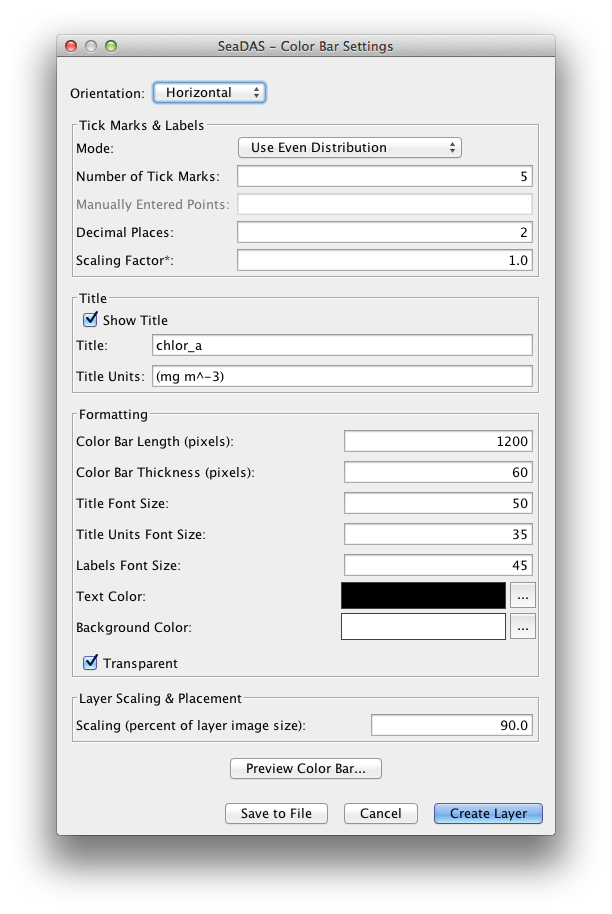
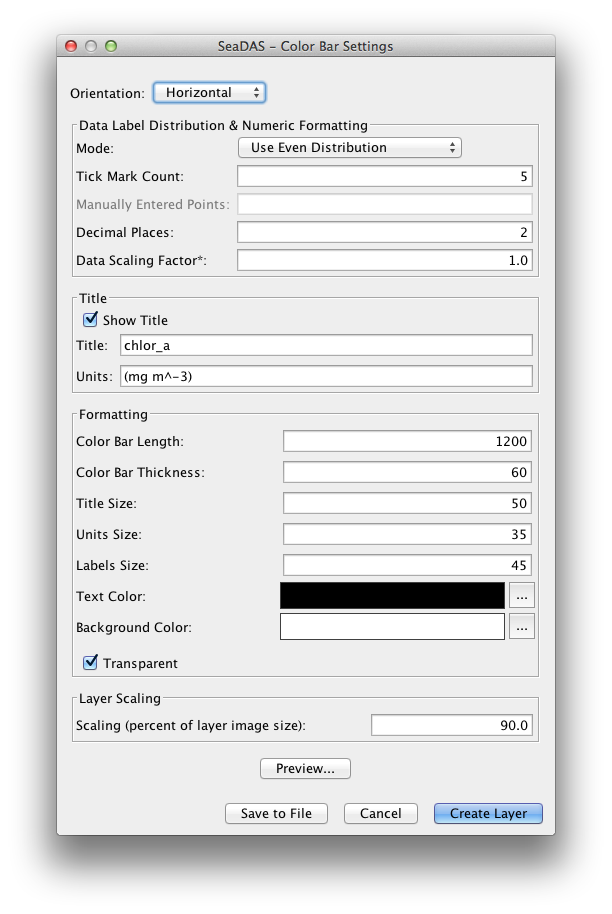
Color Bar Help: finished a rough draft with images.  Also discovered that Bathymetry Help hasn't been done as it was just a stub placeholder.

diff --git a/seadas-help/src/main/resources/doc/help/ColorBar/ColorBar.html b/seadas-help/src/main/resources/doc/help/ColorBar/ColorBar.html
@@ -9,7 +9,7 @@
 <table class="header">
     <tr class="header">
         <td class="header">&nbsp;
-            Color Bar Tool
+            Color Bar
         </td>
 
         <td class="header" align="right"><a href="index.html"><img src="../images/SeaDASHeader.png" border="0"></a></td>
@@ -18,15 +18,16 @@
 
 <br>
 
-<p> The Color Bar Tool is what enables display and formatting of the color bar, the color bar being a visual
+<p> The Color Bar tool is what enables display and formatting of the color bar, the color bar being a visual
     representation
     of the color palette, with its corresponding data values, which has been used in an image.
     <br><br>
 
-    The Color Bar Tool has been significantly revised for SeaDAS 7.1 with a lot of new parameter option choices for the
+    The Color Bar tool has been significantly revised for SeaDAS 7.1 with a lot of new parameter option choices for the
     user.
     It now fully supports log-scaling, gives user full control over text tick labels (their values and formats),
-    adds ability to apply a scaling factor to better display small or large values, supports transparency, the preview
+    adds ability to apply a data scaling factor to better display small or large values, supports transparency, the
+    preview
     resizes to fit the screen no matter how large the color bar actually is, and the user can control the output file
     dimensions.
     Additionally, the color bar can now be made a layer over top the image. <br><br>
@@ -40,6 +41,7 @@
     <br>
 
 
+</p>
 <table class="invisibletable">
     <tr class="invisibletable">
         <td class="invisibletable" align="center">
@@ -76,8 +78,11 @@
 <br><br><br>
 
 
-The next two images illustrate the application of a scaling factor to improve the readability of labels (in this case
-for data values which are very small). Both images were made using the same Rrs_678 band.
+<p>
+    The next two images illustrate the application of a scaling factor to improve the readability of labels (in this
+    case
+    for data values which are very small). Both images were made using the same Rrs_678 band.
+</p>
 <br>
 
 <table class="invisibletable">
@@ -98,8 +103,10 @@ for data values which are very small). Both images were made using the same Rrs_
 <br><br><br>
 
 
-Sometimes, the presentation of an image is better suited to a vertical color bar. The next image shows this orientation.
-<br>
+<p>
+    Sometimes, the presentation of an image is better suited to a vertical color bar. The next image shows this
+    orientation.
+    <br>
 
 
 <table class="invisibletable">
@@ -130,14 +137,75 @@ Sometimes, the presentation of an image is better suited to a vertical color bar
 
 
     The Color Bar Tool <img src="../visat/images/icons/ColorbarVertical24.png" border="0">
-    can be found at File -> Export Utilities -> Color Bar and also in the Layers Toolbar.
+    can be found at <i>(File -> Export Utilities -> Color Bar)</i> and
+    also in the Layers Toolbar.
 
     The following image shows the Color Bar Tool window. <br>
 
+</p>
 
-    <img src="images/ColorBar09.png" border="0"> <br><br>
+<img src="images/ColorBar09.png" border="0"> <br><br>
+
+<p>
+    <b>Orientation - </b> enables selection of "Horizontal" or "Vertical" orientation of the color bar
+    <br><br>
 
 
+    <b>Data Label Distribution &amp; Numeric Formatting - </b> The "Color Bar" tool does not affect a change on the
+    actual
+    distribution of colors within the color bar. It does however put labels at their corresponding data locations.
+    There are 3 different methods you can use to put the data labels on the color bar:<br><br>
+
+    Mode: "Use Even Distribution" - selecting this mode enables the textfield "Tick Mark Count". Using this field, it
+    will evenly distribute tick marks between the color bar defined minimum and maximum value. <br><br>
+
+    Mode: "Use Manually Entered Points" - selecting this mode enables the textfield "Manually Entered Points". The user
+    will
+    enter comma delimited values and these values will be placed on the color bar exactly as the user entered them. As
+    a help to the user, this textfield will be populated by default with the values from the previously selecting mode.
+    The user can then conveniently modify, reformat, delete, or add to this text string. <br><br>
+
+    Mode: "Use Palette Distribution" - selecting this mode will place all points within the palette definition on the
+    color bar.
+    For many palettes this will likely be too many points, but their can be smaller palettes where this functionality
+    is desired. <br><br>
+
+    "Decimal Places" - determines the decimal place setting for all the data labels. <br><br>
+
+    "Data Scaling Factor" - every data label will be modified by multiplying it with this scaling factor. This can help
+    improve data with very small or very large numbers. Adjustment of this field away from "1.0" will of course, in
+    theory,
+    change the units, but the units textfield in the title will remain unaltered, leaving this as an exercise for the
+    user
+    to manually enter it.
+
+
+    <br><br><br>
+
+    <b>Title - </b>
+    The title is by default automatically set from the band info. The user is free to alter this, as well as hiding the
+    title via the "Show Title" checkbox. This checkbox toggles both the title and units together. If you wish to retain
+    the title but not display the units then you will need to remove the text from the "Title Units" textfield.
+    <br><br><br>
+
+    <b>Formatting - </b>
+    All size fields are in units of pixels and should be self-explanatory. The sizes refer specifically to sizing in the
+    exported file. To avoid pixelation in the exported file, you will want to keep the resolution fairly high.
+    <br><br>
+
+    The background color can be selected, or made
+    transparent by checking the "Transparent" checkbox. If you are saving the file, keep in mind that in order to affect
+    transparency you must use a file format (such as .png) which supports transparency.
+
+    <br><br><br>
+
+    <b>Layer Scaling - </b>
+    When creating a color bar layer, you can scale the color bar to the size of the scene image. By default, a
+    horizontal
+    color bar will be placed below the image, in this case the layer scaling refers to percentage of the scene width.
+    Likewise, a vertical
+    color bar will be placed to the right of the image, with the layer scaling referring to percentage of the scene
+    height.
 </p>
 
 <!--<h4>Exporting a Color Legend Image</h4>-->

diff --git a/seadas-help/src/main/resources/doc/help/seadas-bathymetry-operator/Bathymetry.html b/seadas-help/src/main/resources/doc/help/seadas-bathymetry-operator/Bathymetry.html
@@ -32,7 +32,7 @@
                                                                            alt="Bathymetry"></a>
         </td>
         <td style="border-width:0">
-            To bring up the <b>"Bathymetry"</b> window click this tool button
+            To bring up the <b>"Bathymetry Mask &amp; Elevation"</b> window click this tool button
             in the <b>"Layers"</b> tool bar or select the
             corresponding menu item in <b>"Tools -> Bathymetry"</b>.
             <p class="inote"><b>NOTE:</b> this tool can only be accessed if a SeaDAS file is currently selected. </p>
@@ -43,77 +43,77 @@
 
 <h3>Details</h3>
 
-<p>
-    This tool creates coastline, land and water masks within a selected product.
-    Normally masks are made one mask at a time and enabled independently for each band. This tool
-    allows the making and configuring of these masks all at one go. Additionally the masks can be
-    set to enabled (visible) in a bands all at once.
-    <br><br>
+<!--<p>-->
+<!--This tool creates coastline, land and water masks within a selected product.-->
+<!--Normally masks are made one mask at a time and enabled independently for each band. This tool-->
+<!--allows the making and configuring of these masks all at one go. Additionally the masks can be-->
+<!--set to enabled (visible) in a bands all at once.-->
+<!--<br><br>-->
 
-    The <b>"Coastline, Land and Water Masks"</b> window is divided into 4 sections. The top section enables the
-    specification of the <a href="../seadas-watermask-operator/CoastlineLandMasks.html#SHORELINE_SOURCE_DATASET">Shoreline Source Dataset</a>
-    and the <a href="../seadas-watermask-operator/CoastlineLandMasks.html#SUPER_SAMPLING_FACTOR">Super Sampling Factor</a>. This criteria
-    is used when generating all of the masks. The next 3 sections allow the setting of the parameters
-    <a href="../seadas-watermask-operator/CoastlineLandMasks.html#COLOR">Color</a>,
-    <a href="../seadas-watermask-operator/CoastlineLandMasks.html#TRANSPARENCY">Transparency</a>, and
-    <a href="../seadas-watermask-operator/CoastlineLandMasks.html#ENABLED">Enabled in all Bands</a>
-    for each mask.
-
-
-</p>
-
-<a name="SHORELINE_SOURCE_DATASET"></a>
-<h4>Coastline Source Data</h4>
-
-<p>
-    Each of these datasets is a rasterized file whose filename
-    can be observed in the tooltip when hovering the mouse. If a selection entry is greyed out ("not enabled"),
-    then it's corresponding file is not installed currently on your system. To install any of these files see ......<br>
-
-    The current sources of this data are:
-<ol>
-    <li>SRTM_GC: <br>
-        (Shuttle Radar Topography Mission) latitude range {-60S to 60N}<br>
-        (GlobCover world map) latitude range {-90S to -60S}, {60N to 90N}
-    </li>
-    <li>GSHHS: <br>
-        (Global Self-consistent, Hierarchical, High-resolution Shoreline database)
-    </li>
-</ol>
-
-</p>
-
-<a name="SUPER_SAMPLING_FACTOR"></a>
-<h4>Super Sampling Factor</h4>
-<p>
-If the resolution of the selected shorelineSourceDataset is greater than the resolution of the currently
-loaded product then setting this parameter greater than 1 will be desirable.  Something on the order of at least
-(productResolution/coastlineSourceDatasetResolution)^2 should be sufficient.  The higher the value the slower
-the processing time.<br>
-    The defaults are sufficient for the 1km default shoreline dataset.
-</p>
+<!--The <b>"Coastline, Land and Water Masks"</b> window is divided into 4 sections. The top section enables the-->
+<!--specification of the <a href="../seadas-watermask-operator/CoastlineLandMasks.html#SHORELINE_SOURCE_DATASET">Shoreline Source Dataset</a>-->
+<!--and the <a href="../seadas-watermask-operator/CoastlineLandMasks.html#SUPER_SAMPLING_FACTOR">Super Sampling Factor</a>. This criteria-->
+<!--is used when generating all of the masks. The next 3 sections allow the setting of the parameters-->
+<!--<a href="../seadas-watermask-operator/CoastlineLandMasks.html#COLOR">Color</a>,-->
+<!--<a href="../seadas-watermask-operator/CoastlineLandMasks.html#TRANSPARENCY">Transparency</a>, and-->
+<!--<a href="../seadas-watermask-operator/CoastlineLandMasks.html#ENABLED">Enabled in all Bands</a>-->
+<!--for each mask.-->
 
 
-<a name="COLOR"></a>
-<h4>Color</h4>
+<!--</p>-->
 
-<p>
-    Sets the color for the mask in the Mask Manager.
-</p>
+<!--<a name="SHORELINE_SOURCE_DATASET"></a>-->
+<!--<h4>Coastline Source Data</h4>-->
 
-<a name="TRANSPARENCY"></a>
-<h4>Transparency</h4>
+<!--<p>-->
+<!--Each of these datasets is a rasterized file whose filename-->
+<!--can be observed in the tooltip when hovering the mouse. If a selection entry is greyed out ("not enabled"),-->
+<!--then it's corresponding file is not installed currently on your system. To install any of these files see ......<br>-->
 
-<p>
-    Sets the transparency level for the mask in the <a href="../visat/MaskManagement.html">Mask Manager</a>.
-</p>
+<!--The current sources of this data are:-->
+<!--<ol>-->
+<!--<li>SRTM_GC: <br>-->
+<!--(Shuttle Radar Topography Mission) latitude range {-60S to 60N}<br>-->
+<!--(GlobCover world map) latitude range {-90S to -60S}, {60N to 90N}-->
+<!--</li>-->
+<!--<li>GSHHS: <br>-->
+<!--(Global Self-consistent, Hierarchical, High-resolution Shoreline database)-->
+<!--</li>-->
+<!--</ol>-->
 
-<a name="ENABLED"></a>
-<h4>Enabled in all Bands</h4>
+<!--</p>-->
 
-<p>
-    Applies the masks to all displayed bands.
-</p>
+<!--<a name="SUPER_SAMPLING_FACTOR"></a>-->
+<!--<h4>Super Sampling Factor</h4>-->
+<!--<p>-->
+<!--If the resolution of the selected shorelineSourceDataset is greater than the resolution of the currently-->
+<!--loaded product then setting this parameter greater than 1 will be desirable.  Something on the order of at least-->
+<!--(productResolution/coastlineSourceDatasetResolution)^2 should be sufficient.  The higher the value the slower-->
+<!--the processing time.<br>-->
+<!--The defaults are sufficient for the 1km default shoreline dataset.-->
+<!--</p>-->
+
+
+<!--<a name="COLOR"></a>-->
+<!--<h4>Color</h4>-->
+
+<!--<p>-->
+<!--Sets the color for the mask in the Mask Manager.-->
+<!--</p>-->
+
+<!--<a name="TRANSPARENCY"></a>-->
+<!--<h4>Transparency</h4>-->
+
+<!--<p>-->
+<!--Sets the transparency level for the mask in the <a href="../visat/MaskManagement.html">Mask Manager</a>.-->
+<!--</p>-->
+
+<!--<a name="ENABLED"></a>-->
+<!--<h4>Enabled in all Bands</h4>-->
+
+<!--<p>-->
+<!--Applies the masks to all displayed bands.-->
+<!--</p>-->
 
 
 </body>
